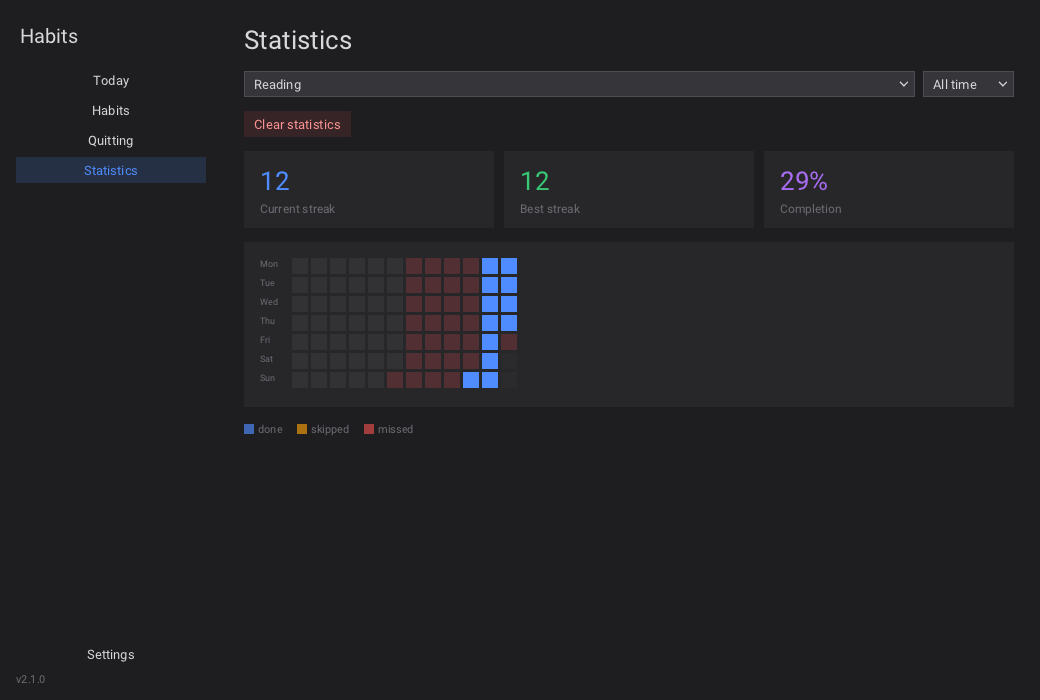
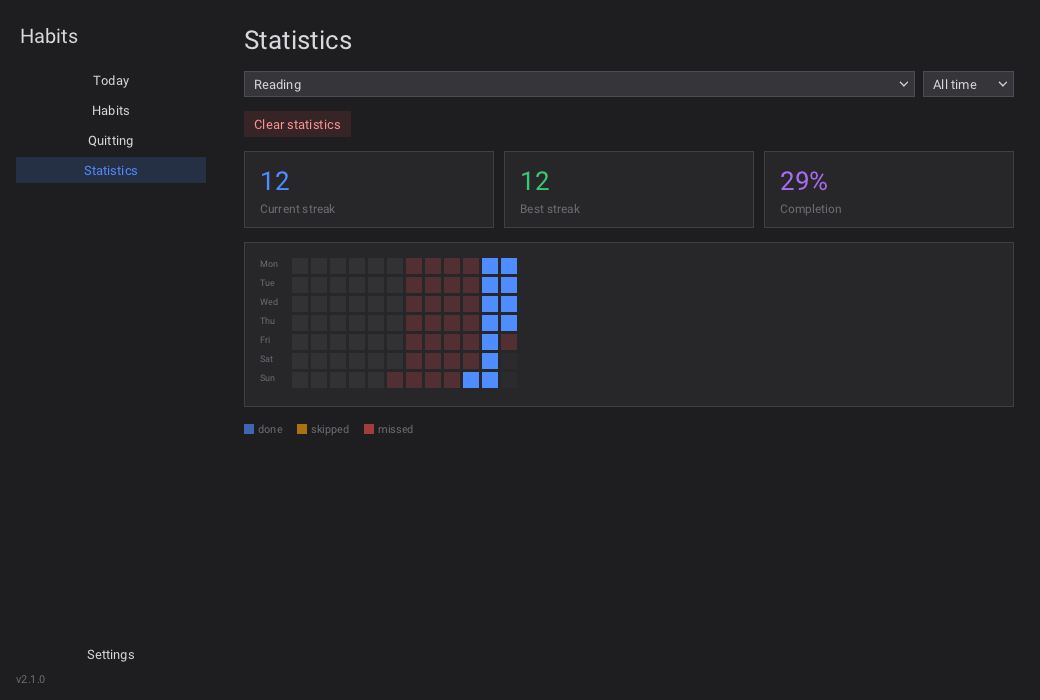
Outline the cards so blocks read as separate panels
Every card now has a one-pixel border in the theme's border colour over the
panel surface: habit rows, statistic cards, the heatmap panel and the settings
card.

diff --git a/src/desktop/main.c b/src/desktop/main.c
@@ -270,13 +270,20 @@ static void add_center(Rid parent, Rid child) {
     Rwidget_add_child(parent, child);
 }
 
-static Rid ui_card(Rid *content) {
+/* A panel surface with a one-pixel outline, so cards read as separate blocks. */
+static void card_surface(Rid border) {
     float r, g, b, a;
     Rtheme_get_color(R_COLOR_PANEL, &r, &g, &b, &a);
-    Rid border = Rwidget_create(R_WIDGET_BORDER);
-    Rborder_set_padding(border, 14.0f, 12.0f, 14.0f, 12.0f);
     Rborder_set_background(border, r, g, b, 1.0f);
     Rborder_set_corner_radius(border, 0.0f, 0.0f, 0.0f, 0.0f);
+    Rtheme_get_color(R_COLOR_BORDER, &r, &g, &b, &a);
+    Rborder_set_outline(border, 1.0f, r, g, b, 1.0f);
+}
+
+static Rid ui_card(Rid *content) {
+    Rid border = Rwidget_create(R_WIDGET_BORDER);
+    Rborder_set_padding(border, 14.0f, 12.0f, 14.0f, 12.0f);
+    card_surface(border);
     Rid box = ui_hbox(12.0f);
     Rwidget_add_child(border, box);
     *content = box;
@@ -291,8 +298,7 @@ static Rid ui_card_acc(const char *hex, Rid *content) {
     Rtheme_get_color(R_COLOR_PANEL, &pr, &pg, &pb, &pa);
 
     Rid outer = Rwidget_create(R_WIDGET_BORDER);
-    Rborder_set_background(outer, pr, pg, pb, 1.0f);
-    Rborder_set_corner_radius(outer, 0.0f, 0.0f, 0.0f, 0.0f);
+    card_surface(outer);
 
     Rid row = ui_hbox(0.0f);
     Rwidget_add_child(outer, row);
@@ -1281,8 +1287,7 @@ static Rid stat_card(const char *value, const char *label, float vr, float vg, f
     Rtheme_get_color(R_COLOR_PANEL, &pr, &pg, &pb, &pa);
     Rid border = Rwidget_create(R_WIDGET_BORDER);
     Rborder_set_padding(border, 16.0f, 12.0f, 16.0f, 12.0f);
-    Rborder_set_background(border, pr, pg, pb, 1.0f);
-    Rborder_set_corner_radius(border, 0.0f, 0.0f, 0.0f, 0.0f);
+    card_surface(border);
     Rid col = ui_vbox(2.0f);
     Rwidget_add_child(border, col);
     Rid big = ui_label(value, 26.0f, 1);
@@ -1367,10 +1372,7 @@ static void build_stats(Rid root) {
     Rcustom_set_paint_callback(heat, paint_heatmap, &g_app);
     Rid heat_wrap = Rwidget_create(R_WIDGET_BORDER);
     Rborder_set_padding(heat_wrap, 16.0f, 16.0f, 16.0f, 16.0f);
-    float pr, pg, pb, pa;
-    Rtheme_get_color(R_COLOR_PANEL, &pr, &pg, &pb, &pa);
-    Rborder_set_background(heat_wrap, pr, pg, pb, 1.0f);
-    Rborder_set_corner_radius(heat_wrap, 0.0f, 0.0f, 0.0f, 0.0f);
+    card_surface(heat_wrap);
     Rid hm_row = ui_hbox(6.0f);
     Rid days_col = ui_vbox(3.0f);
     static const char *day_labels[] = {"Mon", "Tue", "Wed", "Thu", "Fri", "Sat", "Sun"};
